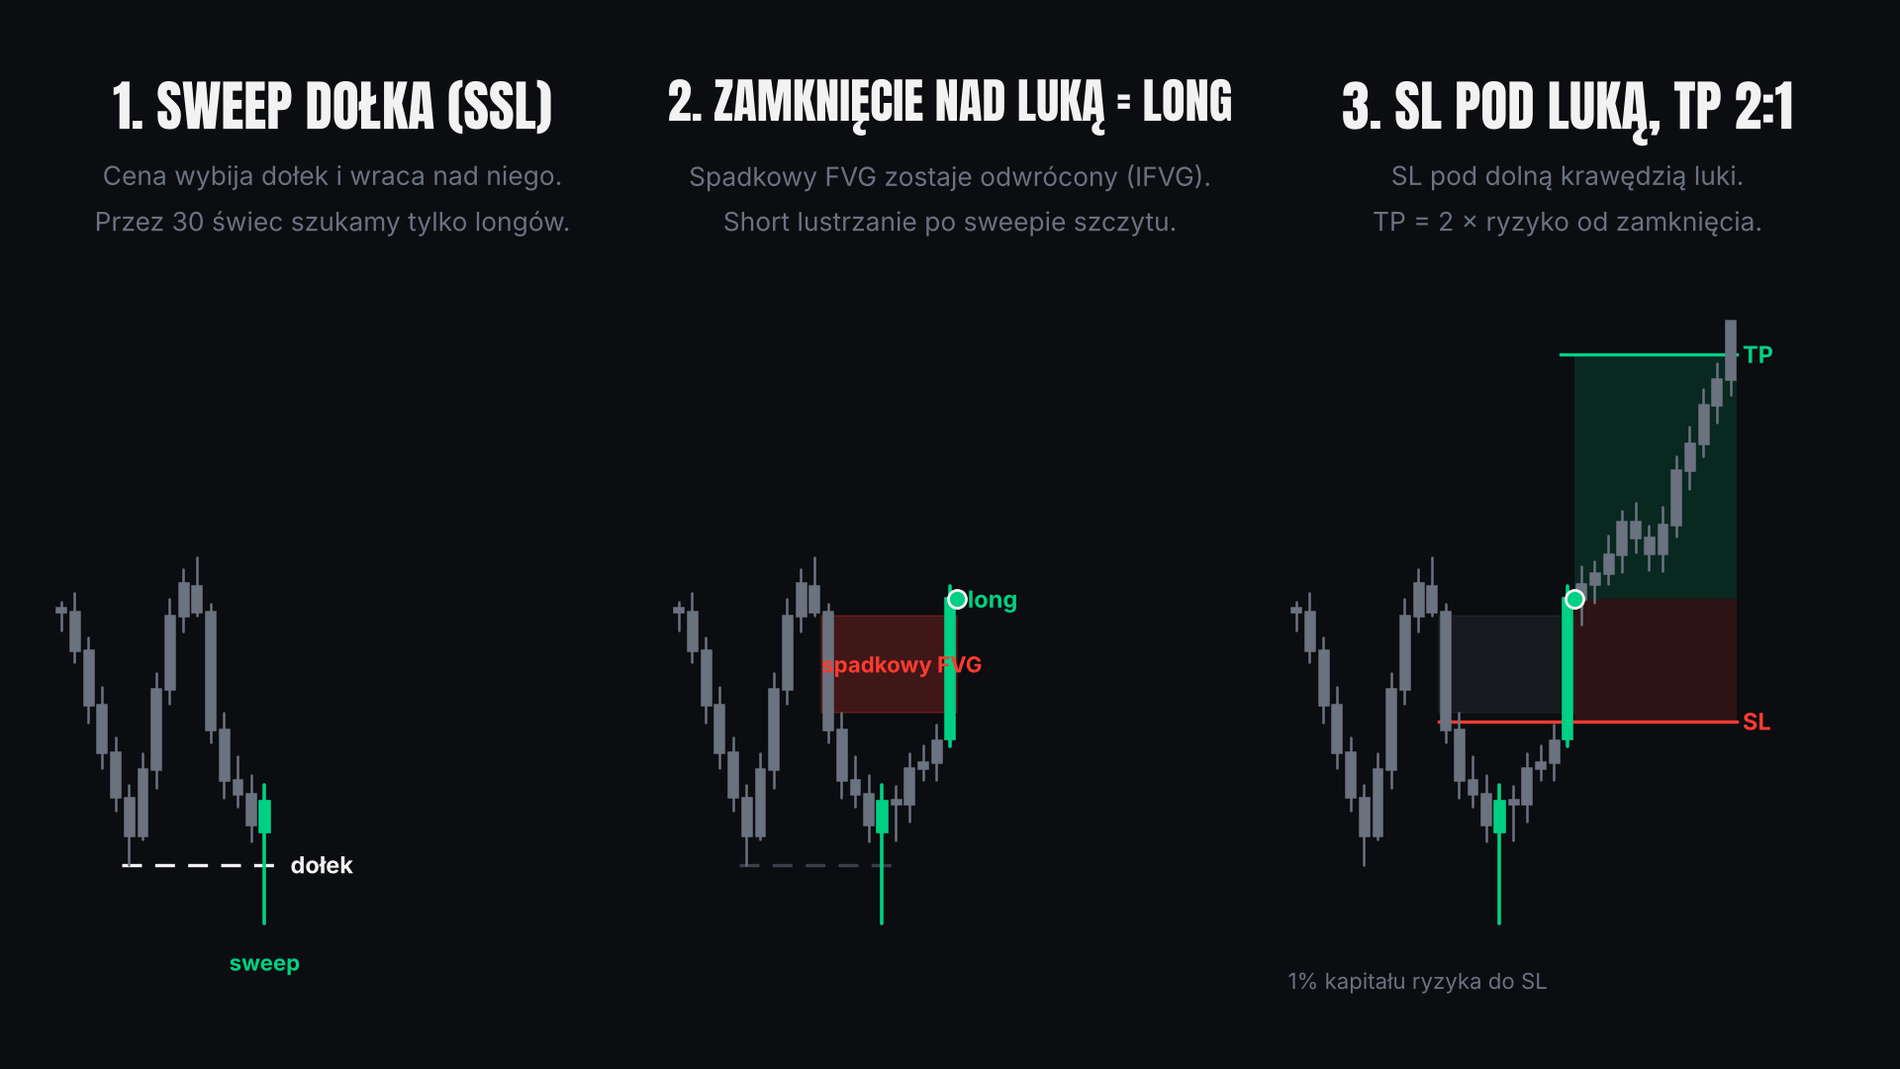
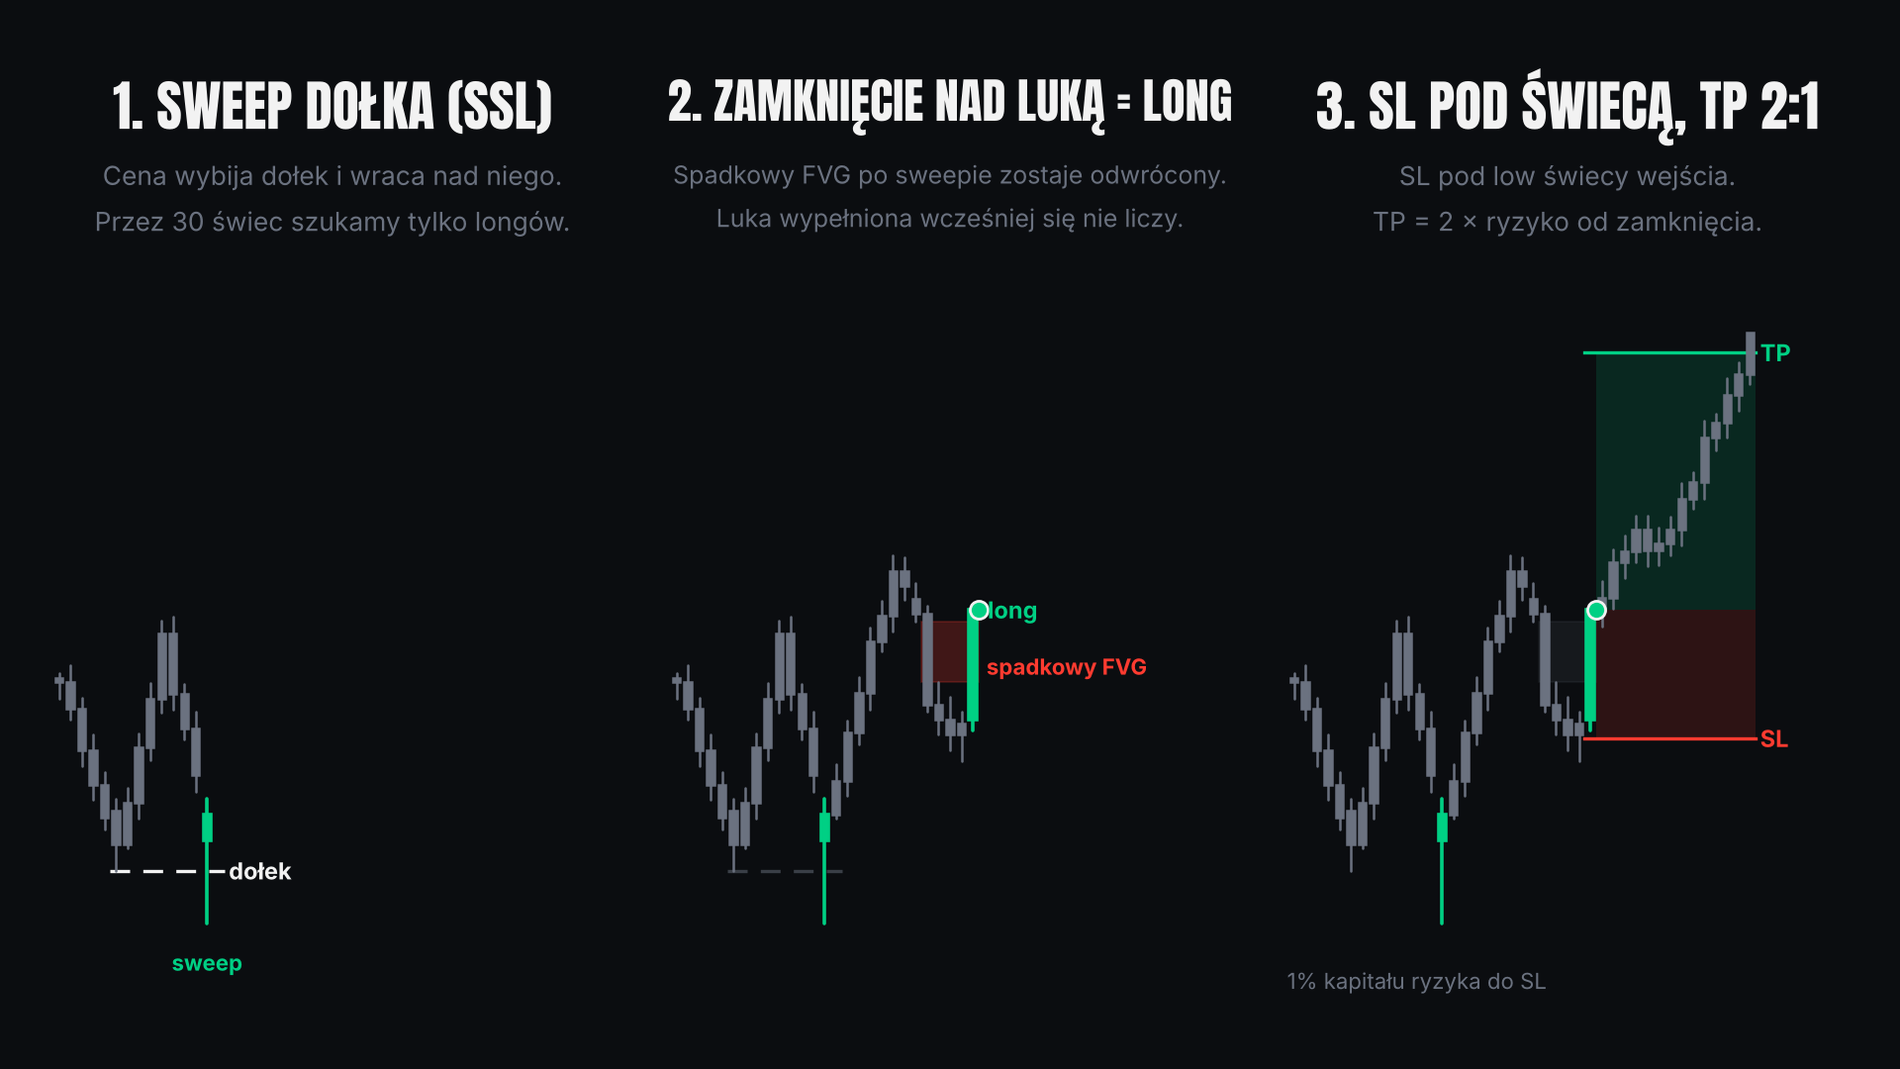
SSL + IFVG: wypełniona luka kasuje FVG, tylko FVG po sweepie, SL pod świecą wejścia
Plansza 09 i rozpiski zaktualizowane; źródło: TradingLouisYT.

Claude-Session: https://claude.ai/code/session_01DmSsWAR1VzRYbJF3Gx1jWk

diff --git a/nagrania/TikTok/rozpiska_strategii.html b/nagrania/TikTok/rozpiska_strategii.html
@@ -111,7 +111,7 @@ footer{color:var(--mut);font-size:12.5px;border-top:1px solid var(--line);paddin
 <figure class="fig"><svg viewBox="0 0 570 252" role="img" aria-label="Wybicie oporu i retest" font-family="Inter, system-ui, sans-serif"><rect x="14" y="10" width="478" height="230" fill="#0F1216" stroke="#1A1E24"/><polyline points="52.5,125.0 376.4,125.0" fill="none" stroke="#F2F2F2" stroke-width="1.6" stroke-linejoin="round"/><text x="52.5" y="117.0" text-anchor="start" font-size="11" fill="#F2F2F2">opór: min. 2 knoty</text><rect x="384.1" y="105.8" width="107.9" height="25.6" fill="#FF3B30" fill-opacity="0.14"/><rect x="384.1" y="54.7" width="107.9" height="51.1" fill="#00D084" fill-opacity="0.12"/><polyline points="391.8,131.4 484.3,131.4" fill="none" stroke="#FF3B30" stroke-width="1.4" stroke-linejoin="round"/><text x="493.5" y="135.4" text-anchor="start" font-size="11" fill="#FF3B30">SL</text><polyline points="391.8,54.7 484.3,54.7" fill="none" stroke="#00D084" stroke-width="1.4" stroke-linejoin="round"/><text x="493.5" y="58.7" text-anchor="start" font-size="11" fill="#00D084">TP 2:1 (nasze)</text><line x1="21.7" x2="21.7" y1="198.2" y2="207.4" stroke="#00D084" stroke-width="1.2"/><rect x="17.2" y="201.7" width="8.9" height="1.2" fill="#00D084"/><line x1="37.1" x2="37.1" y1="176.8" y2="205.3" stroke="#00D084" stroke-width="1.2"/><rect x="32.7" y="182.5" width="8.9" height="19.2" fill="#00D084"/><line x1="52.5" x2="52.5" y1="159.7" y2="187.6" stroke="#00D084" stroke-width="1.2"/><rect x="48.1" y="163.3" width="8.9" height="19.2" fill="#00D084"/><line x1="68.0" x2="68.0" y1="138.7" y2="168.0" stroke="#00D084" stroke-width="1.2"/><rect x="63.5" y="144.2" width="8.9" height="19.2" fill="#00D084"/><line x1="83.4" x2="83.4" y1="124.4" y2="147.4" stroke="#00D084" stroke-width="1.2"/><rect x="78.9" y="137.8" width="8.9" height="6.4" fill="#00D084"/><line x1="98.8" x2="98.8" y1="132.9" y2="162.6" stroke="#FF3B30" stroke-width="1.2"/><rect x="94.3" y="137.8" width="8.9" height="19.2" fill="#FF3B30"/><line x1="114.2" x2="114.2" y1="152.4" y2="179.6" stroke="#FF3B30" stroke-width="1.2"/><rect x="109.8" y="156.9" width="8.9" height="19.2" fill="#FF3B30"/><line x1="129.6" x2="129.6" y1="171.8" y2="194.4" stroke="#FF3B30" stroke-width="1.2"/><rect x="125.2" y="176.1" width="8.9" height="12.8" fill="#FF3B30"/><line x1="145.1" x2="145.1" y1="164.6" y2="193.1" stroke="#00D084" stroke-width="1.2"/><rect x="140.6" y="169.7" width="8.9" height="19.2" fill="#00D084"/><line x1="160.5" x2="160.5" y1="146.7" y2="174.1" stroke="#00D084" stroke-width="1.2"/><rect x="156.0" y="150.6" width="8.9" height="19.2" fill="#00D084"/><line x1="175.9" x2="175.9" y1="125.0" y2="153.8" stroke="#00D084" stroke-width="1.2"/><rect x="171.4" y="137.8" width="8.9" height="12.8" fill="#00D084"/><line x1="191.3" x2="191.3" y1="134.3" y2="160.5" stroke="#FF3B30" stroke-width="1.2"/><rect x="186.9" y="137.8" width="8.9" height="19.2" fill="#FF3B30"/><line x1="206.7" x2="206.7" y1="151.2" y2="181.8" stroke="#FF3B30" stroke-width="1.2"/><rect x="202.3" y="156.9" width="8.9" height="19.2" fill="#FF3B30"/><line x1="222.2" x2="222.2" y1="172.6" y2="192.7" stroke="#FF3B30" stroke-width="1.2"/><rect x="217.7" y="176.1" width="8.9" height="12.8" fill="#FF3B30"/><line x1="237.6" x2="237.6" y1="176.9" y2="193.8" stroke="#00D084" stroke-width="1.2"/><rect x="233.1" y="182.5" width="8.9" height="6.4" fill="#00D084"/><line x1="253.0" x2="253.0" y1="159.6" y2="187.4" stroke="#00D084" stroke-width="1.2"/><rect x="248.5" y="163.3" width="8.9" height="19.2" fill="#00D084"/><line x1="268.4" x2="268.4" y1="138.9" y2="167.1" stroke="#00D084" stroke-width="1.2"/><rect x="263.9" y="144.2" width="8.9" height="19.2" fill="#00D084"/><line x1="283.8" x2="283.8" y1="123.7" y2="150.6" stroke="#00D084" stroke-width="1.2"/><rect x="279.4" y="131.4" width="8.9" height="12.8" fill="#00D084"/><line x1="299.3" x2="299.3" y1="126.7" y2="141.3" stroke="#FF3B30" stroke-width="1.2"/><rect x="294.8" y="131.4" width="8.9" height="6.4" fill="#FF3B30"/><line x1="314.7" x2="314.7" y1="94.6" y2="143.1" stroke="#00D084" stroke-width="1.2"/><rect x="310.2" y="99.4" width="8.9" height="38.3" fill="#00D084"/><line x1="330.1" x2="330.1" y1="82.6" y2="103.9" stroke="#00D084" stroke-width="1.2"/><rect x="325.6" y="86.7" width="8.9" height="12.8" fill="#00D084"/><line x1="345.5" x2="345.5" y1="74.9" y2="90.8" stroke="#00D084" stroke-width="1.2"/><rect x="341.0" y="80.3" width="8.9" height="6.4" fill="#00D084"/><line x1="360.9" x2="360.9" y1="76.6" y2="98.6" stroke="#FF3B30" stroke-width="1.2"/><rect x="356.5" y="80.3" width="8.9" height="12.8" fill="#FF3B30"/><line x1="376.4" x2="376.4" y1="89.9" y2="127.6" stroke="#FF3B30" stroke-width="1.2"/><rect x="371.9" y="93.1" width="8.9" height="12.8" fill="#FF3B30"/><line x1="391.8" x2="391.8" y1="96.0" y2="111.5" stroke="#00D084" stroke-width="1.2"/><rect x="387.3" y="99.4" width="8.9" height="6.4" fill="#00D084"/><line x1="407.2" x2="407.2" y1="74.5" y2="103.4" stroke="#00D084" stroke-width="1.2"/><rect x="402.7" y="80.3" width="8.9" height="19.2" fill="#00D084"/><line x1="422.6" x2="422.6" y1="63.9" y2="84.9" stroke="#00D084" stroke-width="1.2"/><rect x="418.1" y="67.5" width="8.9" height="12.8" fill="#00D084"/><line x1="438.0" x2="438.0" y1="49.2" y2="72.6" stroke="#00D084" stroke-width="1.2"/><rect x="433.6" y="54.7" width="8.9" height="12.8" fill="#00D084"/><line x1="453.5" x2="453.5" y1="44.4" y2="58.3" stroke="#00D084" stroke-width="1.2"/><rect x="449.0" y="48.3" width="8.9" height="6.4" fill="#00D084"/><line x1="468.9" x2="468.9" y1="30.6" y2="54.1" stroke="#00D084" stroke-width="1.2"/><rect x="464.4" y="35.6" width="8.9" height="12.8" fill="#00D084"/><line x1="484.3" x2="484.3" y1="31.1" y2="45.6" stroke="#FF3B30" stroke-width="1.2"/><rect x="479.8" y="35.6" width="8.9" height="6.4" fill="#FF3B30"/><circle cx="83.4" cy="118.4" r="3" fill="#F5C451"/><circle cx="175.9" cy="119.0" r="3" fill="#F5C451"/><text x="314.7" y="73.4" text-anchor="middle" font-size="11" fill="#7C838E">wybicie zamknięciem</text><polygon points="376.35483870967744,130.55555555555554 370.35483870967744,141.35555555555555 382.35483870967744,141.35555555555555" fill="#00D084"/><text x="376.4" y="161.6" text-anchor="middle" font-size="11" fill="#00D084">retest ≤ 5 świec</text></svg><figcaption>Schemat poglądowy, nie dane rynkowe.</figcaption></figure></div></section><section class="strat" id="sslifvg">
 <header><span class="no">09/09</span><h2>SSL + IFVG</h2><p class="src"><span class="miss">do uzupełnienia</span> (koncept ICT) · <code>SSL_IFVG.py</code></p></header>
 <div class="grid"><div class="txt"><p class="none claimnone">Claim autora: brak w źródłach</p>
-<dl><dt>Wejście</dt><dd>Sweep dołka (SSL): cena wybija pivot low i wraca nad niego, od tej chwili tylko longi przez 30 świec. Long, gdy świeca zamknie się nad spadkowym FVG z ostatnich 30 świec (odwrócony FVG). Short lustrzanie po sweepie szczytu.</dd><dt>Wyjście, SL, TP</dt><dd>SL pod dolną krawędzią luki (dla shorta nad górną). TP 2:1 od zamknięcia.</dd>
+<dl><dt>Wejście</dt><dd>Sweep dołka (SSL): cena wybija pivot low i wraca nad niego, od tej chwili tylko longi przez 30 świec. Long, gdy świeca zamknie się nad spadkowym FVG powstałym po sweepie, z ostatnich 30 świec (odwrócony FVG). Luka wypełniona wcześniej knotem do górnej krawędzi (ICT: zużyta) się nie liczy. Short lustrzanie po sweepie szczytu.</dd><dt>Wyjście, SL, TP</dt><dd>SL pod low świecy wejścia (dla shorta nad jej high). TP 2:1 od zamknięcia.</dd>
 <dt>Interwał</dt><dd>Autor: 1 min, NQ. Test: tylko 1 min.</dd><dt>Pozycja</dt><dd>1% ryzyka</dd></dl>
 <h3>Nasze założenia</h3><ul><li>Pivot 3/3. Bias kasowany zamknięciem pod low sweepu.</li><li>NQ nie ma w danych (USA 100 kończy się w 2014), więc test na standardowym koszyku.</li><li>Wykres HTML z 1 min × 5 lat jest bardzo ciężki; przy pełnym przebiegu lepiej SAVE_HTML = False.</li></ul>
 <p class="status"><span class="dot"></span>Kod gotowy (PR #18) · wyniki: <span class="miss">brak w plikach projektu</span></p></div>

diff --git a/nagrania/TikTok/SSL_IFVG/rozpiska.html b/nagrania/TikTok/SSL_IFVG/rozpiska.html
@@ -46,7 +46,7 @@ footer{color:var(--mut);font-size:12.5px;border-top:1px solid var(--line);paddin
 <section class="strat" id="sslifvg">
 <header><span class="no">09/09</span><h2>SSL + IFVG</h2><p class="src"><span class="miss">do uzupełnienia</span> (koncept ICT) · <code>SSL_IFVG.py</code></p></header>
 <div class="grid"><div class="txt"><p class="none claimnone">Claim autora: brak w źródłach</p>
-<dl><dt>Wejście</dt><dd>Sweep dołka (SSL): cena wybija pivot low i wraca nad niego, od tej chwili tylko longi przez 30 świec. Long, gdy świeca zamknie się nad spadkowym FVG z ostatnich 30 świec (odwrócony FVG). Short lustrzanie po sweepie szczytu.</dd><dt>Wyjście, SL, TP</dt><dd>SL pod dolną krawędzią luki (dla shorta nad górną). TP 2:1 od zamknięcia.</dd>
+<dl><dt>Wejście</dt><dd>Sweep dołka (SSL): cena wybija pivot low i wraca nad niego, od tej chwili tylko longi przez 30 świec. Long, gdy świeca zamknie się nad spadkowym FVG powstałym po sweepie, z ostatnich 30 świec (odwrócony FVG). Luka wypełniona wcześniej knotem do górnej krawędzi (ICT: zużyta) się nie liczy. Short lustrzanie po sweepie szczytu.</dd><dt>Wyjście, SL, TP</dt><dd>SL pod low świecy wejścia (dla shorta nad jej high). TP 2:1 od zamknięcia.</dd>
 <dt>Interwał</dt><dd>Autor: 1 min, NQ. Test: tylko 1 min.</dd><dt>Pozycja</dt><dd>1% ryzyka</dd></dl>
 <h3>Nasze założenia</h3><ul><li>Pivot 3/3. Bias kasowany zamknięciem pod low sweepu.</li><li>NQ nie ma w danych (USA 100 kończy się w 2014), więc test na standardowym koszyku.</li><li>Wykres HTML z 1 min × 5 lat jest bardzo ciężki; przy pełnym przebiegu lepiej SAVE_HTML = False.</li></ul>
 <p class="status"><span class="dot"></span>Kod gotowy (PR #18) · wyniki: <span class="miss">brak w plikach projektu</span></p></div>

diff --git a/strategies/tiktok/SSL_IFVG.py b/strategies/tiktok/SSL_IFVG.py
@@ -27,6 +27,7 @@ def ssl_ifvg(bars: pd.DataFrame) -> pd.DataFrame:
     Sweep SSL: low świecy schodzi pod ostatni pivot low (3 świece
     w lewo, 3 w prawo — znany 3 świece po dołku), a zamknięcie
     wraca nad niego. Od tej świecy przez 30 świec bias = long.
+    Liczą się tylko FVG domknięte po świecy sweepu (jak na filmie).
     Zamknięcie pod dołkiem to zwykłe przebicie, nie sweep.
     Zamknięcie pod low świecy sweepu kasuje bias (sweep się nie
     udał, cena idzie niżej).
@@ -34,13 +35,19 @@ def ssl_ifvg(bars: pd.DataFrame) -> pd.DataFrame:
     FVG spadkowy: high świecy n jest pod low świecy n-2 (knoty
     1. i 3. świecy się nie stykają). Luka: od high[n] do low[n-2].
 
+    Wypełniona luka (ICT): jeśli świeca dojdzie knotem do górnej
+    krawędzi spadkowego FVG, ale zamknie się nie wyżej, luka jest
+    zużyta i znika — nie da już sygnału. Częściowe wejście w lukę
+    jej nie kasuje.
+
     IFVG: zamknięcie nad górną krawędzią spadkowego FVG z ostatnich
-    30 świec, jeszcze nieodwróconego. Przy biasie long to sygnał
-    long, SL pod dolną krawędzią luki. Odwrócony FVG znika.
+    30 świec, jeszcze nieodwróconego i niewypełnionego. Przy biasie
+    long to sygnał long, SL pod low świecy wejścia (czerwone pole na
+    filmie kończy się tuż pod nią). Odwrócony FVG znika.
 
     Short lustrzanie: sweep BSL (high nad pivot high, zamknięcie
-    pod nim) i zamknięcie pod dolną krawędzią wzrostowego FVG,
-    SL nad jego górną krawędzią.
+    pod nim), zamknięcie pod dolną krawędzią wzrostowego FVG,
+    SL nad high świecy wejścia.
 
     Wyjście: kolumny long, short, stop (SL sygnału), bias (1 long,
     -1 short, 0 brak), ssl, bsl
@@ -71,6 +78,7 @@ def ssl_ifvg(bars: pd.DataFrame) -> pd.DataFrame:
 
     ssl = bsl = np.nan
     long_until = short_until = -1
+    long_sweep_bar = short_sweep_bar = -1
     sweep_low = sweep_high = np.nan
     bias = np.zeros(size)
     bear_fvgs = []   # (świeca, góra, dół)
@@ -93,6 +101,7 @@ def ssl_ifvg(bars: pd.DataFrame) -> pd.DataFrame:
             if close[n] > ssl:
                 sweep_ssl[n] = True
                 long_until, short_until = n + BIAS_BARS, -1
+                long_sweep_bar = n
                 sweep_low = low[n]
             ssl = np.nan
 
@@ -100,6 +109,7 @@ def ssl_ifvg(bars: pd.DataFrame) -> pd.DataFrame:
             if close[n] < bsl:
                 sweep_bsl[n] = True
                 short_until, long_until = n + BIAS_BARS, -1
+                short_sweep_bar = n
                 sweep_high = high[n]
             bsl = np.nan
 
@@ -119,25 +129,36 @@ def ssl_ifvg(bars: pd.DataFrame) -> pd.DataFrame:
         bear_fvgs = [f for f in bear_fvgs if n - f[0] <= FVG_BARS]
         bull_fvgs = [f for f in bull_fvgs if n - f[0] <= FVG_BARS]
 
-        # ---------------- Inwersja ----------------
+        # ---------------- Inwersja i wypełnienie ----------------
         # Luka utworzona na tej świecy nie może się na niej odwrócić.
+        # Knot do drugiej krawędzi bez zamknięcia za nią = luka
+        # wypełniona (zużyta), znika bez sygnału.
         inverted = [f for f in bear_fvgs if f[0] < n and close[n] > f[1]]
-        if inverted:
-            bear_fvgs = [f for f in bear_fvgs if f not in inverted]
-            if n <= long_until:
-                newest = max(inverted, key=lambda f: f[0])
-                long[n] = True
-                stop[n] = newest[2]
-                signal_zones.append((newest[0] - 1, n, newest[1], newest[2], 1))
+        filled = [f for f in bear_fvgs
+                  if f[0] < n and high[n] >= f[1] and close[n] <= f[1]]
+        if inverted or filled:
+            bear_fvgs = [f for f in bear_fvgs
+                         if f not in inverted and f not in filled]
+        valid = [f for f in inverted if f[0] > long_sweep_bar]
+        if valid and n <= long_until and close[n] > low[n]:
+            newest = max(valid, key=lambda f: f[0])
+            long[n] = True
+            stop[n] = low[n]
+            signal_zones.append((newest[0] - 1, n, newest[1], newest[2], 1))
 
         inverted = [f for f in bull_fvgs if f[0] < n and close[n] < f[2]]
-        if inverted:
-            bull_fvgs = [f for f in bull_fvgs if f not in inverted]
-            if n <= short_until and not long[n]:
-                newest = max(inverted, key=lambda f: f[0])
-                short[n] = True
-                stop[n] = newest[1]
-                signal_zones.append((newest[0] - 1, n, newest[1], newest[2], -1))
+        filled = [f for f in bull_fvgs
+                  if f[0] < n and low[n] <= f[2] and close[n] >= f[2]]
+        if inverted or filled:
+            bull_fvgs = [f for f in bull_fvgs
+                         if f not in inverted and f not in filled]
+        valid = [f for f in inverted if f[0] > short_sweep_bar]
+        if (valid and n <= short_until and not long[n]
+                and close[n] < high[n]):
+            newest = max(valid, key=lambda f: f[0])
+            short[n] = True
+            stop[n] = high[n]
+            signal_zones.append((newest[0] - 1, n, newest[1], newest[2], -1))
 
         if bear_fvgs:
             bear_top[n], bear_bottom[n] = bear_fvgs[-1][1:]
@@ -180,8 +201,8 @@ def generate_signals(bars: pd.DataFrame, rr_ratio: float = 2.0) -> pd.DataFrame:
     biasie short po sweepie BSL. Wejście na pierwszym ticku po
     zamknięciu świecy sygnałowej.
 
-    SL pod dolną krawędzią odwróconej luki (dla shorta nad górną),
-    jak czerwone pole na filmie. TP = 2 × ryzyko od zamknięcia.
+    SL pod low świecy wejścia (dla shorta nad jej high), jak
+    czerwone pole na filmie. TP = 2 × ryzyko od zamknięcia.
     Pozycja: 1% kapitału ryzykowany przy SL.
 
     Wyjście:

diff --git a/narzedzia/plansze_objasniajace/tiktok_plansze.py b/narzedzia/plansze_objasniajace/tiktok_plansze.py
@@ -675,17 +675,17 @@ def sr_retest():
 
 # ───────────────────────── 09 SSL + IFVG ─────────────────────────
 def ssl_ifvg():
-    n = 38
-    cl = path([(0, 106), (5, 100.6), (8, 106), (10, 106.8), (11, 105.6), (12, 102.4), (13, 101.4), (15, 100.9),
-               (16, 101.5), (18, 102.6), (19, 103), (20, 106.0), (24, 108), (26, 107.4), (33, 113.5), (37, 114)], n, 0.3)
-    PIV, SWP, ENT = 5, 15, 20
-    over = {PIV: (101.6, 101.9, 100.0, 100.7),
-            10: (106.6, 107.3, 105.9, 106.0), 11: (106.0, 106.2, 102.9, 103.2), 12: (103.2, 103.6, 101.6, 102.0),
-            SWP: (100.8, 101.9, 98.6, 101.5), ENT: (103.0, 106.6, 102.8, 106.3)}
+    n = 45
+    cl = path([(0, 105), (5, 100.6), (9, 106), (13, 101.5), (19, 108.0), (20, 107.5), (21, 106.8), (22, 104.4),
+               (23, 104.0), (24, 103.6), (25, 103.9), (26, 106.9), (30, 109), (32, 108.4), (40, 114), (44, 114.5)], n, 0.3)
+    PIV, SWP, ENT = 5, 13, 26
+    over = {PIV: (101.6, 101.9, 100.0, 100.7), SWP: (100.8, 101.9, 98.6, 101.5),
+            21: (107.2, 107.6, 106.6, 106.8), 22: (106.8, 107.0, 104.2, 104.4), 23: (104.4, 105.0, 103.6, 104.0),
+            24: (104.0, 104.6, 103.2, 103.6), 25: (103.6, 104.2, 102.9, 103.9), ENT: (104.0, 107.0, 103.7, 106.9)}
     B = bars_from(cl, wick=0.4, over=over)
     PL = B[PIV][2]
-    g_top, g_bot = B[10][2], B[12][1]  # spadkowy FVG: high[12] < low[10]
-    entry, sl = B[ENT][3], g_bot - 0.2
+    g_top, g_bot = B[21][2], B[23][1]  # spadkowy FVG po sweepie: high[23] < low[21]
+    entry, sl = B[ENT][3], B[ENT][2] - 0.2  # SL pod low świecy wejścia
     tp = entry + 2 * (entry - sl)
     EXIT = next(i for i in range(ENT + 1, n) if B[i][1] >= tp)
     B[EXIT] = (B[EXIT][0], tp + 0.4, B[EXIT][2], max(B[EXIT][3], tp - 0.3))
@@ -693,7 +693,7 @@ def ssl_ifvg():
     lo, hi = ylim_of(B, n, pad=0.12)
 
     def gap(s, x2, col=RED, a=0.22):
-        s.ax.add_patch(Rectangle((10.5, g_bot), x2 - 10.5, g_top - g_bot, facecolor=col, alpha=a, edgecolor=col, lw=1.2, zorder=1))
+        s.ax.add_patch(Rectangle((21.5, g_bot), x2 - 21.5, g_top - g_bot, facecolor=col, alpha=a, edgecolor=col, lw=1.2, zorder=1))
 
     fig = figure()
     s = Seg(fig, 0, "1. SWEEP DOŁKA (SSL)", "Cena wybija dołek i wraca nad niego.\nPrzez 30 świec szukamy tylko longów.", n, (lo, hi))
@@ -701,21 +701,21 @@ def ssl_ifvg():
     s.level(PL, PIV - 0.5, SWP + 1.5, FG, "dołek")
     s.tag(SWP, B[SWP][2], "sweep", GREEN, True, size=16)
 
-    s = Seg(fig, 1, "2. ZAMKNIĘCIE NAD LUKĄ = LONG", "Spadkowy FVG zostaje odwrócony (IFVG).\nShort lustrzanie po sweepie szczytu.", n, (lo, hi))
+    s = Seg(fig, 1, "2. ZAMKNIĘCIE NAD LUKĄ = LONG", "Spadkowy FVG po sweepie zostaje odwrócony.\nLuka wypełniona wcześniej się nie liczy.", n, (lo, hi))
     s.candles(B, ENT + 1, {SWP: GREEN, ENT: GREEN})
     s.level(PL, PIV - 0.5, SWP + 1.5, DIM)
     gap(s, ENT + 0.5)
-    s.ax.text((10.5 + ENT) / 2 + 1.2, (g_top + g_bot) / 2, "spadkowy FVG", color=RED, fontsize=16, fontweight="bold",
-              ha="center", va="center", zorder=8)
+    s.ax.text(ENT + 1.2, (g_top + g_bot) / 2 - 0.4, "spadkowy FVG", color=RED, fontsize=16, fontweight="bold",
+              ha="left", va="center", zorder=8)
     s.entry(ENT, entry, GREEN, "long")
 
-    s = Seg(fig, 2, "3. SL POD LUKĄ, TP 2:1", "SL pod dolną krawędzią luki.\nTP = 2 × ryzyko od zamknięcia.", n, (lo, hi))
+    s = Seg(fig, 2, "3. SL POD ŚWIECĄ, TP 2:1", "SL pod low świecy wejścia.\nTP = 2 × ryzyko od zamknięcia.", n, (lo, hi))
     s.candles(B, n, {SWP: GREEN, ENT: GREEN})
     gap(s, ENT + 0.5, GREY, 0.12)
     s.ax.add_patch(Rectangle((ENT + 0.5, sl), EXIT - ENT, entry - sl, facecolor=RED, alpha=0.14, lw=0, zorder=1))
     s.ax.add_patch(Rectangle((ENT + 0.5, entry), EXIT - ENT, tp - entry, facecolor=GREEN, alpha=0.14, lw=0, zorder=1))
     s.level(tp, ENT - 0.5, EXIT + 0.5, GREEN, "TP", ls="-")
-    s.level(sl, 10.5, EXIT + 0.5, RED, "SL", ls="-")
+    s.level(sl, ENT - 0.5, EXIT + 0.5, RED, "SL", ls="-")
     s.ax.plot([ENT + 0.5], [entry], "o", ms=13, color=GREEN, mec=FG, mew=2, zorder=8)
     s.note("1% kapitału ryzyka do SL", y=lo)
     save(fig, "09_ssl_ifvg")

diff --git a/nagrania/TikTok/zrodla_strategii.md b/nagrania/TikTok/zrodla_strategii.md
@@ -10,4 +10,4 @@ Na TikToku nie ma tekstu posta, więc zapisuję tylko to, co mamy w rozmowie. Br
 | RSI 6 (80/20) RR 2:1 | `RSI6_80_20.py` | do uzupełnienia | — |
 | BigBeluga Two-Pole + Stochastic 7,3,3 | `BigBeluga_Stoch_80percent.py` | do uzupełnienia | Claim 80%. |
 | SR Retest | `SR_Retest.py` | TikTok, Antonio (link do uzupełnienia) | Claim: „This simple price action trading strategy on a 5 minute time frame has 90% win rate along with tight support and resistance.” Kadr: kilka knotów na jednym poziomie = opór, „Break and close above resistance”, „Retest resistance (Take Long)”. Autor nie podał wyjścia. Nasze założenia (Kamil, 2026-11-13): opór = najwyższe high z 20 świec, min. 2 knoty w 0,25 ATR z odbiciem pomiędzy (nie double top), retest w 5 świec, SL za świecą retestu, TP 2:1, short lustrzanie. |
-| SSL + IFVG | `SSL_IFVG.py` | do uzupełnienia | 1 min, NQ. |
+| SSL + IFVG | `SSL_IFVG.py` | TradingLouisYT, „The 90% winrate trading strategy - ICT” (2023-10-24) | 1 min, NQ. |
